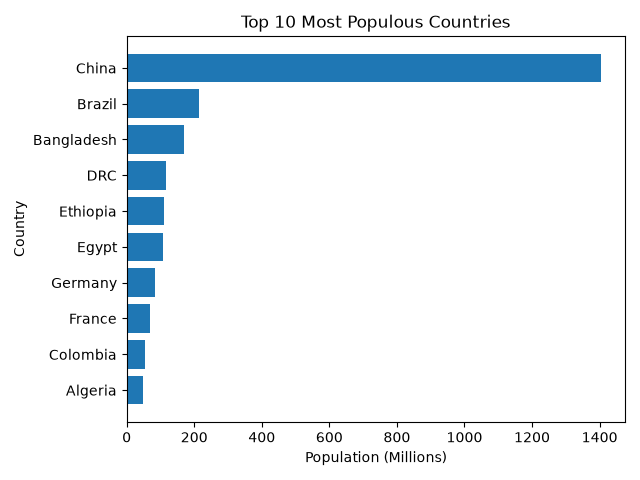
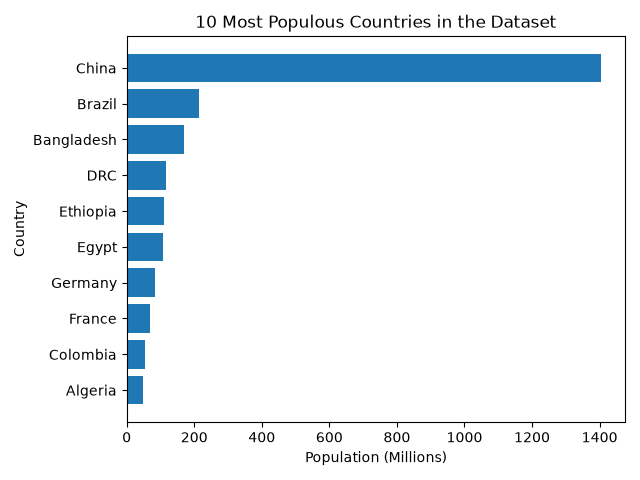
updated the copy in the first option of the print out

Changed region(s): [[0.3125, 0.0312, 0.875, 0.0625]]

diff --git a/main.py b/main.py
@@ -177,7 +177,7 @@ def main():
                 )
 
                 for country in sorted_cleaned_countries:
-                    print(f"Country: {country['name']} | Capital: {country['capital']} | Region: {country['region']} | Population: {country['population']} ") 
+                    print(f"{country['name']} | Capital: {country['capital']} | Region: {country['region']} | Population: {country['population']} ") 
 
         elif result == "3":
             print("")
